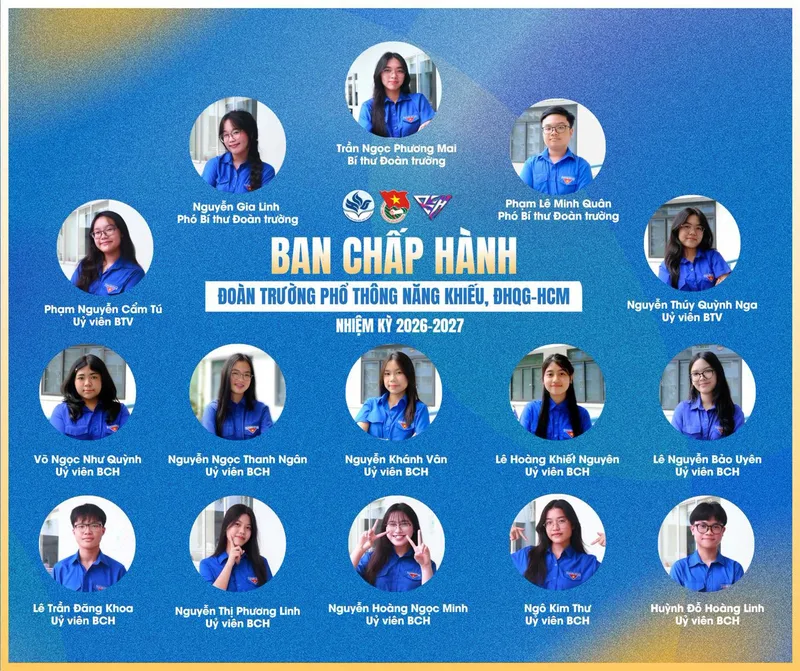
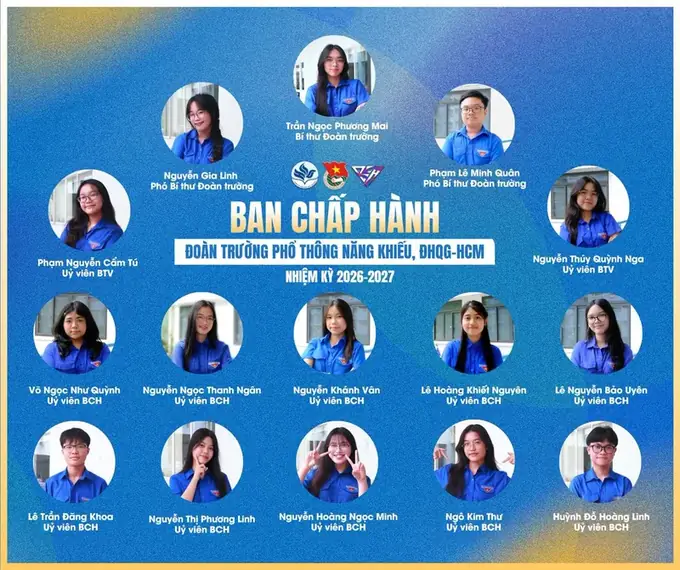
Nén ảnh bản tin, BCH, CTV và thêm bản ảnh hero 600px
Chỉ thay đổi ảnh và thuộc tính width/height, không đổi CSS hay font.
Đo Lighthouse mobile cục bộ: LCP 3.0s -> 2.6s.

Claude-Session: https://claude.ai/code/session_01CHYjFmZYr7Si56MTsiGT2M

diff --git a/public/index.html b/public/index.html
@@ -13,7 +13,7 @@
 <link rel="icon" type="image/png" sizes="32x32" href="./assets/favicon-32.png">
 <link rel="icon" type="image/png" sizes="192x192" href="./assets/favicon-192.png">
 <link rel="apple-touch-icon" href="./assets/apple-touch-icon.png">
-<link rel="preload" as="image" href="./assets/hd-hoi-trai-400.webp" imagesrcset="./assets/hd-hoi-trai-400.webp 400w, ./assets/hd-hoi-trai.webp 800w" imagesizes="(max-width:600px) 62vw, 330px" fetchpriority="high">
+<link rel="preload" as="image" href="./assets/hd-hoi-trai-400.webp" imagesrcset="./assets/hd-hoi-trai-400.webp 400w, ./assets/hd-hoi-trai-600.webp 600w, ./assets/hd-hoi-trai.webp 800w" imagesizes="(max-width:600px) 62vw, 330px" fetchpriority="high">
 <link rel="preconnect" href="https://fonts.googleapis.com">
 <link rel="preconnect" href="https://fonts.gstatic.com" crossorigin>
 <link href="https://fonts.googleapis.com/css2?family=Be+Vietnam+Pro:wght@400;600;700;800;900&family=Dancing+Script:wght@700&display=swap&subset=vietnamese" rel="stylesheet">
@@ -59,7 +59,7 @@
         </div>
       </div>
       <div class="stack" aria-label="Hoạt động tiêu biểu của Đoàn trường">
-        <figure class="pin p1"><img src="./assets/hd-hoi-trai-400.webp" srcset="./assets/hd-hoi-trai-400.webp 400w, ./assets/hd-hoi-trai.webp 800w" sizes="(max-width:600px) 62vw, 330px" width="800" height="800" fetchpriority="high" decoding="async" alt="Hội trại truyền thống của Đoàn trường Phổ thông Năng khiếu"></figure>
+        <figure class="pin p1"><img src="./assets/hd-hoi-trai-400.webp" srcset="./assets/hd-hoi-trai-400.webp 400w, ./assets/hd-hoi-trai-600.webp 600w, ./assets/hd-hoi-trai.webp 800w" sizes="(max-width:600px) 62vw, 330px" width="800" height="800" fetchpriority="high" decoding="async" alt="Hội trại truyền thống của Đoàn trường Phổ thông Năng khiếu"></figure>
         <figure class="pin p2"><img src="./assets/hd-hoi-xuan-400.webp" srcset="./assets/hd-hoi-xuan-400.webp 400w, ./assets/hd-hoi-xuan.webp 800w" sizes="(max-width:600px) 52vw, 280px" width="800" height="800" decoding="async" alt="Hội Xuân của học sinh Phổ thông Năng khiếu"></figure>
         <span class="sticker">20.11</span>
       </div>
@@ -73,7 +73,7 @@
 
   <section class="open" id="mo-don" data-mo-don>
     <div class="wrap opengrid">
-      <figure class="openimg"><img id="md-anh" src="./assets/fb-ctv.webp" width="760" height="760" loading="lazy" decoding="async" alt="Ấn phẩm của đơn đang mở"></figure>
+      <figure class="openimg"><img id="md-anh" src="./assets/fb-ctv.webp" width="560" height="560" loading="lazy" decoding="async" alt="Ấn phẩm của đơn đang mở"></figure>
       <div class="opencard">
         <span class="status live" id="ctv-status">Đang mở đơn</span>
         <h2 id="md-tieude"></h2>
@@ -136,7 +136,7 @@
       </div>
       <figure class="board">
         <span class="tape" aria-hidden="true"></span>
-        <img src="./assets/fb-bch.webp" width="1100" height="922" loading="lazy" decoding="async" alt="Ấn phẩm giới thiệu thành viên Ban Chấp hành Đoàn trường Phổ thông Năng khiếu nhiệm kỳ 2026–2027">
+        <img src="./assets/fb-bch.webp" width="760" height="637" loading="lazy" decoding="async" alt="Ấn phẩm giới thiệu thành viên Ban Chấp hành Đoàn trường Phổ thông Năng khiếu nhiệm kỳ 2026–2027">
       </figure>
     </div>
   </section>
